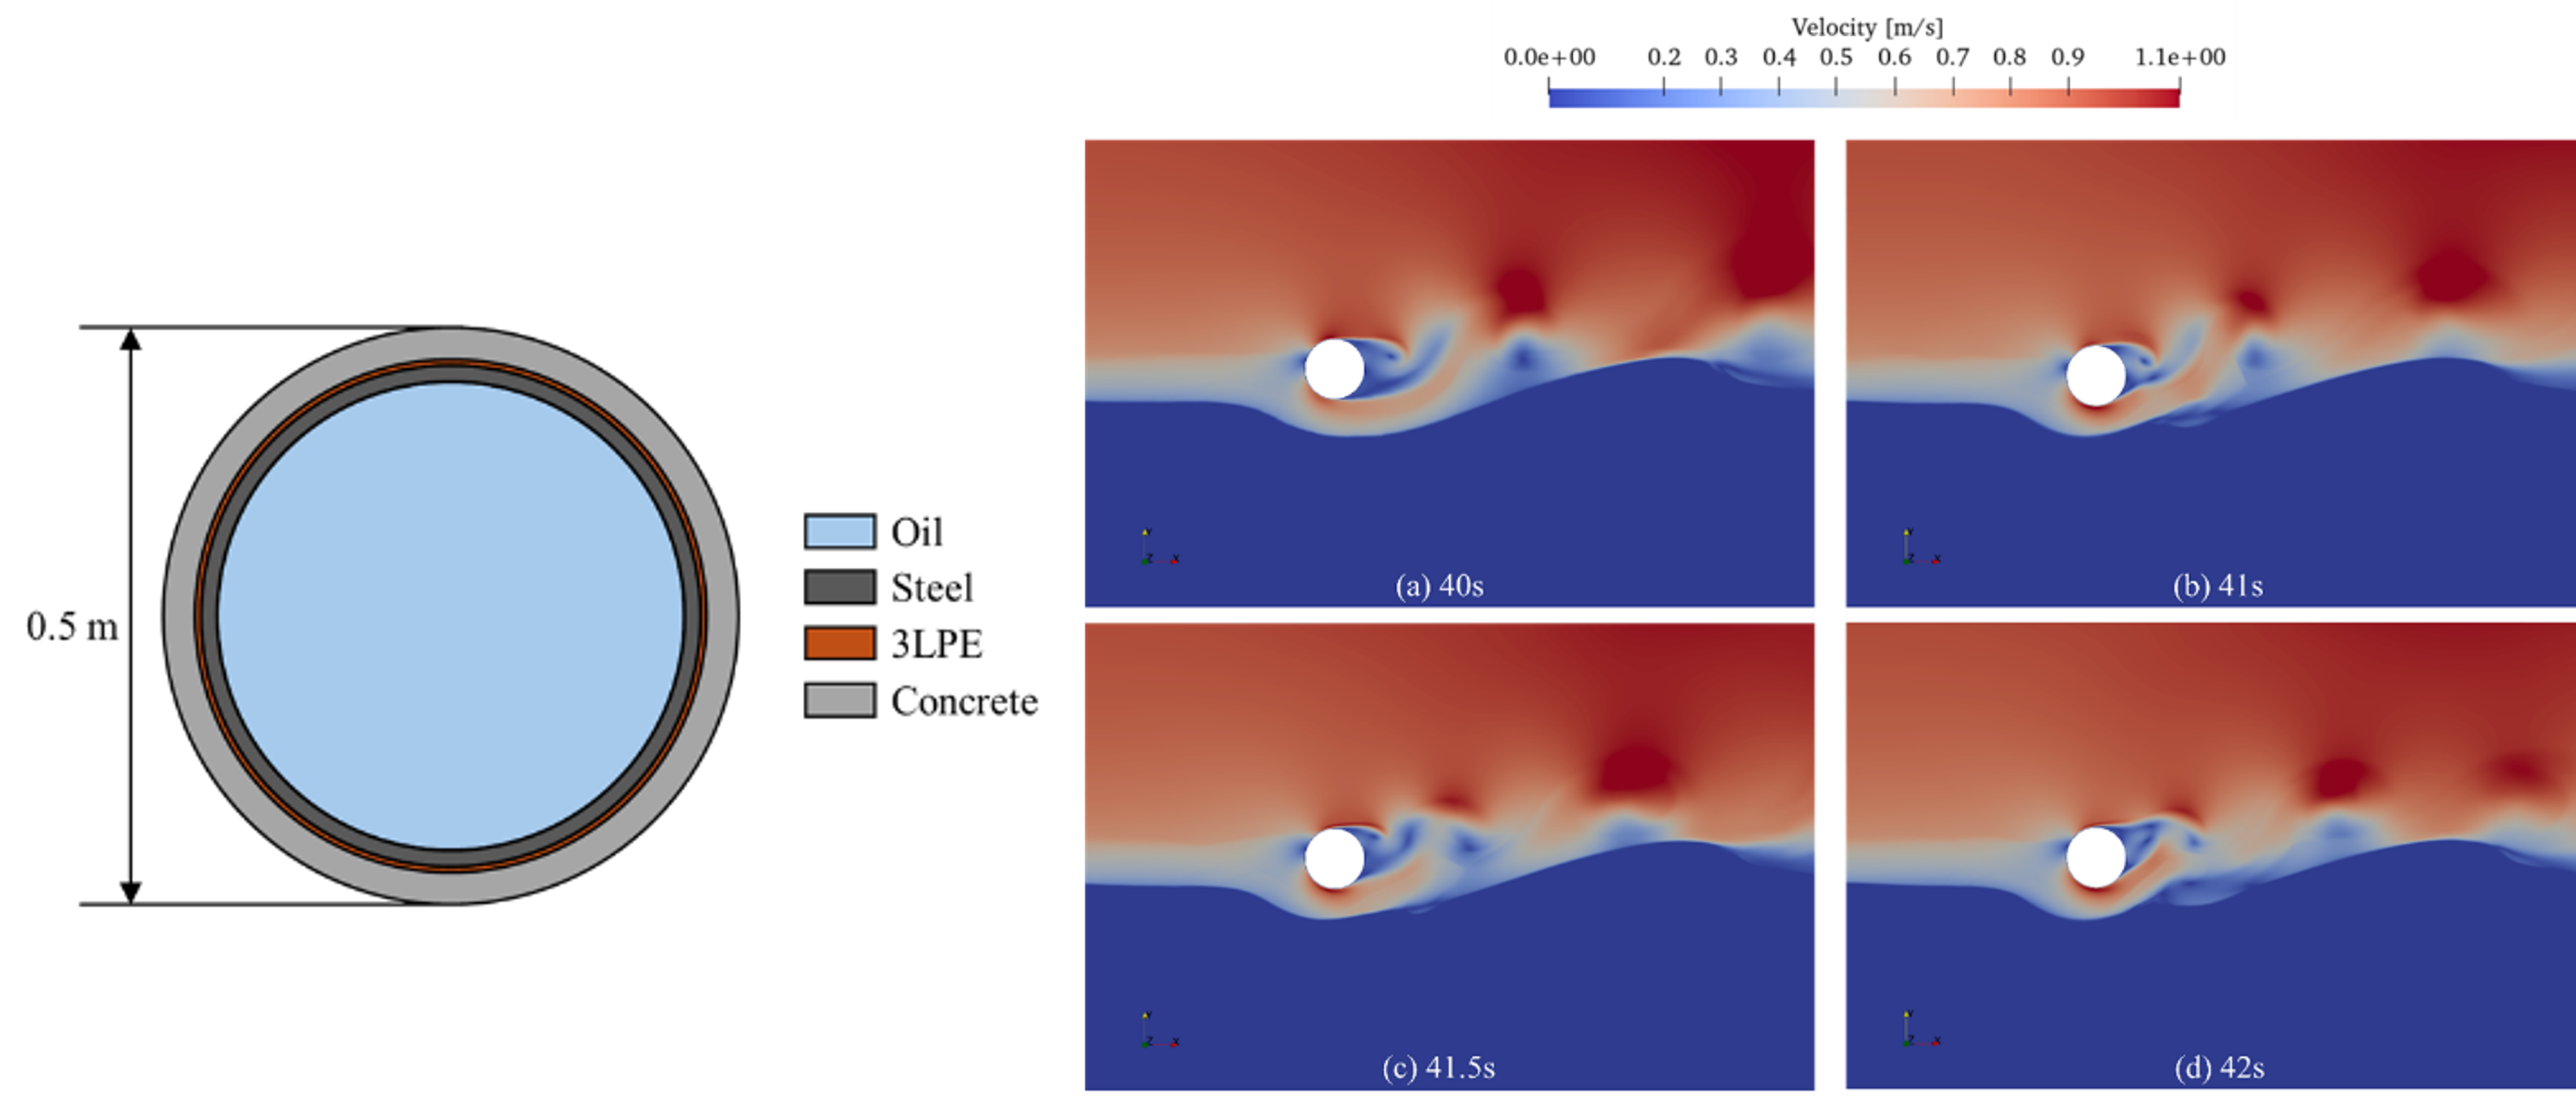
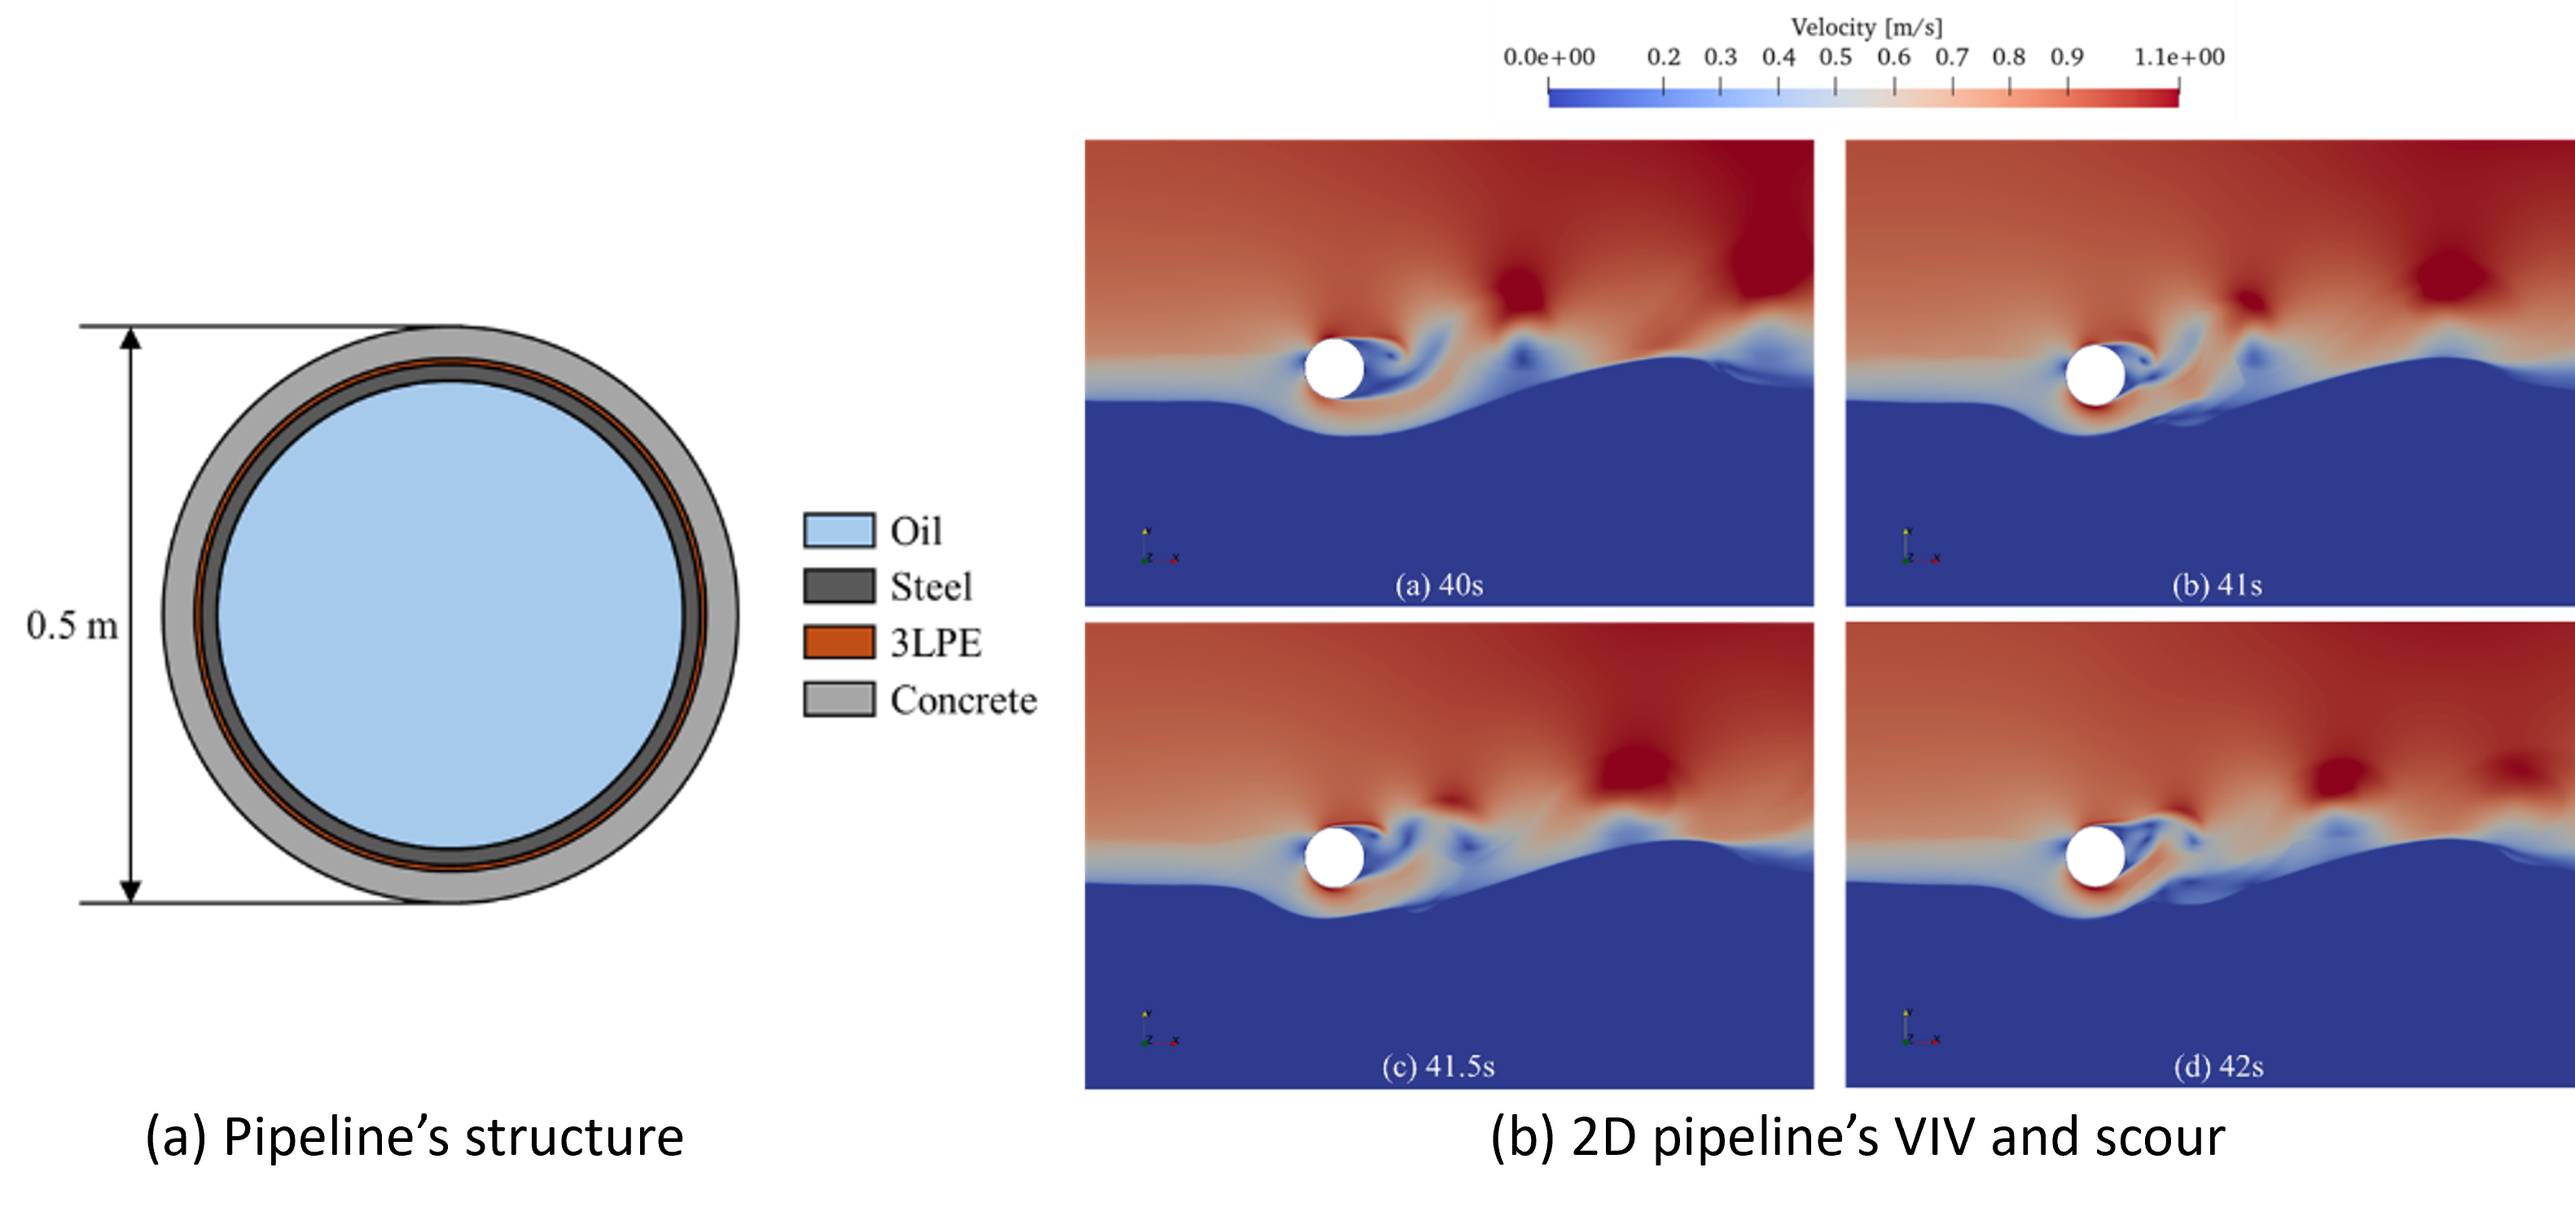
Add files via upload

diff --git a/numerical-investigation-of-coupled-vortex-induced-vibration-and-scour-of-subsea-pipelines-under-ocean-currents.html b/numerical-investigation-of-coupled-vortex-induced-vibration-and-scour-of-subsea-pipelines-under-ocean-currents.html
@@ -1,2 +1,2 @@
 <!DOCTYPE html>
-<html lang="en"><head><meta charset="UTF-8"><meta name="viewport" content="width=device-width, initial-scale=1"><meta name="description" content="Numerical Investigation of Coupled Vortex-Induced Vibration and Scour of Subsea Pipelines under Ocean Currents. Journal of Marine Science and Engineering (2026)."><meta name="theme-color" content="#176a7a"><title>Numerical Investigation of Coupled Vortex-Induced Vibration and Scour of Subsea Pipelines under Ocean Currents | Xueliang Wen</title><link rel="stylesheet" href="style.css"></head><body><a class="skip-link" href="#main">Skip to content</a><header><nav class="navbar" aria-label="Main navigation"><a class="nav-left" href="index.html">Xueliang Wen</a><ul class="nav-right"><li><a href="index.html">Home</a></li><li><a href="projects.html">Projects</a></li><li><a href="publications.html" class="active" aria-current="page">Publications</a></li></ul></nav></header><main class="container" id="main"><article class="right full-width article-detail"><a href="publications.html#journal-2026">← Back to Publications</a><h1 class="page-title article-title"><a href="https://doi.org/10.3390/jmse14141279">Numerical Investigation of Coupled Vortex-Induced Vibration and Scour of Subsea Pipelines under Ocean Currents</a></h1><p class="article-authors">Yancheng Li, Xueliang Wen, Guang Yin, Lusheng Jia, Jun Huang, Naiquan Ye, Muk Chen Ong</p><p class="muted"><time datetime="2026">2026</time></p><figure class="article-figure"><img src="numerical-investigation-of-coupled-vortex-induced-vibration-and-scour-of-subsea-pipelines-under-ocean-currents.png" alt="Numerical Investigation of Coupled Vortex-Induced Vibration and Scour of Subsea Pipelines under Ocean Currents"></figure><section aria-labelledby="abstract-title"><h2 id="abstract-title">Abstract</h2><p>Sediment transport beneath subsea pipelines is essentially a highly complex multiphase flow problem, involving strong coupling between hydrodynamics, structural response, and sediment transfer. Accurately capturing this process is of significant scientific and engineering importance for predicting seabed evolution and ensuring the structural safety and stability of subsea pipelines. In this study, the coupled vortex-induced vibration (VIV) and scour behaviour of subsea pipelines under steady current conditions is investigated using a computational fluid dynamics (CFD)-based numerical approach. The solver is developed within SedFoam by incorporating dynamic mesh motion to account for pipeline vibration. The pipeline is modelled as a single-degree-of-freedom system with a vertically mounted spring and a concentrated mass. The numerical results reveal a strong interaction between pipeline VIV and the evolving seabed morphology. Repeated pipeline motion toward the seabed significantly modifies the local scour profile and promotes the formation of a sand dune beneath the pipeline. The presence of the sand dune alters the near-bed flow field and suppresses vortex shedding beneath the pipeline. As the scour process develops and the fluid–structure–seabed interaction intensifies, the VIV response of the pipeline is progressively reduced. The present study highlights the important coupling mechanisms between pipeline vibration and seabed scour and provides insights into the dynamic evolution of pipeline–seabed interaction.</p><a href="https://doi.org/10.3390/jmse14141279">Read the published article ↗</a></section><dl class="article-metadata"><div><dt>Publication type</dt><dd>Journal article</dd></div><div><dt>Journal</dt><dd>Journal of Marine Science and Engineering</dd></div><div><dt>Volume</dt><dd>14</dd></div><div><dt>Issue</dt><dd>14</dd></div><div><dt>Article number</dt><dd>1279</dd></div><div><dt>DOI</dt><dd><a href="https://doi.org/10.3390/jmse14141279">10.3390/jmse14141279</a></dd></div></dl></article></main><footer><span>Xueliang Wen · Marine Technology</span><a href="mailto:xueliang.wen@outlook.com">xueliang.wen@outlook.com</a></footer></body></html>
+<html lang="en"><head><meta charset="UTF-8"><meta name="viewport" content="width=device-width, initial-scale=1"><meta name="description" content="Numerical investigation of coupled vortex-induced vibration and scour of subsea pipelines under ocean currents. Journal of Marine Science and Engineering (2026)."><meta name="theme-color" content="#176a7a"><title>Numerical investigation of coupled vortex-induced vibration and scour of subsea pipelines under ocean currents | Xueliang Wen</title><link rel="stylesheet" href="style.css"></head><body><a class="skip-link" href="#main">Skip to content</a><header><nav class="navbar" aria-label="Main navigation"><a class="nav-left" href="index.html">Xueliang Wen</a><ul class="nav-right"><li><a href="index.html">Home</a></li><li><a href="projects.html">Projects</a></li><li><a href="publications.html" class="active" aria-current="page">Publications</a></li></ul></nav></header><main class="container" id="main"><article class="right full-width article-detail"><a href="publications.html#journal-2026">← Back to Publications</a><h1 class="page-title article-title"><a href="https://doi.org/10.3390/jmse14141279">Numerical investigation of coupled vortex-induced vibration and scour of subsea pipelines under ocean currents</a></h1><p class="article-authors">Yancheng Li, Xueliang Wen, Guang Yin, Lusheng Jia, Jun Huang, Naiquan Ye, Muk Chen Ong</p><p class="muted"><time datetime="2026">2026</time></p><figure class="article-figure"><img src="numerical-investigation-of-coupled-vortex-induced-vibration-and-scour-of-subsea-pipelines-under-ocean-currents.png" alt="Numerical investigation of coupled vortex-induced vibration and scour of subsea pipelines under ocean currents"></figure><section aria-labelledby="abstract-title"><h2 id="abstract-title">Abstract</h2><p>Sediment transport beneath subsea pipelines is essentially a highly complex multiphase flow problem, involving strong coupling between hydrodynamics, structural response, and sediment transfer. Accurately capturing this process is of significant scientific and engineering importance for predicting seabed evolution and ensuring the structural safety and stability of subsea pipelines. In this study, the coupled vortex-induced vibration (VIV) and scour behaviour of subsea pipelines under steady current conditions is investigated using a computational fluid dynamics (CFD)-based numerical approach. The solver is developed within SedFoam by incorporating dynamic mesh motion to account for pipeline vibration. The pipeline is modelled as a single-degree-of-freedom system with a vertically mounted spring and a concentrated mass. The numerical results reveal a strong interaction between pipeline VIV and the evolving seabed morphology. Repeated pipeline motion toward the seabed significantly modifies the local scour profile and promotes the formation of a sand dune beneath the pipeline. The presence of the sand dune alters the near-bed flow field and suppresses vortex shedding beneath the pipeline. As the scour process develops and the fluid–structure–seabed interaction intensifies, the VIV response of the pipeline is progressively reduced. The present study highlights the important coupling mechanisms between pipeline vibration and seabed scour and provides insights into the dynamic evolution of pipeline–seabed interaction.</p><a href="https://doi.org/10.3390/jmse14141279">Read the published article ↗</a></section><dl class="article-metadata"><div><dt>Publication type</dt><dd>Journal article</dd></div><div><dt>Journal</dt><dd>Journal of Marine Science and Engineering</dd></div><div><dt>Volume</dt><dd>14</dd></div><div><dt>Issue</dt><dd>14</dd></div><div><dt>Article number</dt><dd>1279</dd></div><div><dt>DOI</dt><dd><a href="https://doi.org/10.3390/jmse14141279">10.3390/jmse14141279</a></dd></div></dl></article></main><footer><span>Xueliang Wen · Marine Technology</span><a href="mailto:xueliang.wen@outlook.com">xueliang.wen@outlook.com</a></footer></body></html>

diff --git a/three-dimensional-numerical-simulation-of-spanwise-scour-propagation-beneath-a-submarine-pipeline.html b/three-dimensional-numerical-simulation-of-spanwise-scour-propagation-beneath-a-submarine-pipeline.html
@@ -1,2 +1,2 @@
 <!DOCTYPE html>
-<html lang="en"><head><meta charset="UTF-8"><meta name="viewport" content="width=device-width, initial-scale=1"><meta name="description" content="Three-Dimensional Numerical Simulation of Spanwise Scour Propagation Beneath a Submarine Pipeline. Journal of Marine Science and Engineering (2026)."><meta name="theme-color" content="#176a7a"><title>Three-Dimensional Numerical Simulation of Spanwise Scour Propagation Beneath a Submarine Pipeline | Xueliang Wen</title><link rel="stylesheet" href="style.css"></head><body><a class="skip-link" href="#main">Skip to content</a><header><nav class="navbar" aria-label="Main navigation"><a class="nav-left" href="index.html">Xueliang Wen</a><ul class="nav-right"><li><a href="index.html">Home</a></li><li><a href="projects.html">Projects</a></li><li><a href="publications.html" class="active" aria-current="page">Publications</a></li></ul></nav></header><main class="container" id="main"><article class="right full-width article-detail"><a href="publications.html#journal-2026">← Back to Publications</a><h1 class="page-title article-title"><a href="https://doi.org/10.3390/jmse14181729">Three-Dimensional Numerical Simulation of Spanwise Scour Propagation Beneath a Submarine Pipeline</a></h1><p class="article-authors">Jun Huang, Guang Yin, Xueliang Wen, Lusheng Jia, Yancheng Li, Zerui Tao, Naiquan Ye, Muk Chen Ong</p><p class="muted"><time datetime="2026">2026</time></p><figure class="article-figure"><img src="three-dimensional-numerical-simulation-of-spanwise-scour-propagation-beneath-a-submarine-pipeline.png" alt="Three-Dimensional Numerical Simulation of Spanwise Scour Propagation Beneath a Submarine Pipeline"></figure><section aria-labelledby="abstract-title"><h2 id="abstract-title">Abstract</h2><p>When submarine pipelines are placed on erodible sandy beds, the interaction between the surrounding flow, the pipeline, and the sediment can induce local scour. While two-dimensional simulations have been extensively performed to capture the scour process in a two-dimensional cross-sectional plane, they cannot simulate the three-dimensional (3D) spanwise propagation of the scour hole, which leads to free-span development. This study presents 3D numerical simulations of current-induced scour propagation in the spanwise direction beneath a subsea pipeline using an open-source Eulerian two-phase flow solver. Systematic simulations are performed under four distinct Shields parameters. The results indicate a close spatial association between the evolving 3D scour hole and regions of localized shear stress amplification and sediment flux near the span shoulder. For low Shields parameters, the scour hole retains pronounced 3D features with steady spanwise propagation, which is also characterized by skewed wake flow structures and oblique downstream dunes. At higher Shields parameters, the scour front propagates rapidly across the domain, causing the morphology and flow streamlines to transition to a quasi-2D state. Furthermore, the scour slope at the span shoulder remains approximately constant across the investigated flow conditions. The spanwise propagation speed is approximately constant during the fitted propagation stage for the selected four simulated conditions.</p><a href="https://doi.org/10.3390/jmse14181729">Read the published article ↗</a></section><dl class="article-metadata"><div><dt>Publication type</dt><dd>Journal article</dd></div><div><dt>Journal</dt><dd>Journal of Marine Science and Engineering</dd></div><div><dt>Volume</dt><dd>14</dd></div><div><dt>Issue</dt><dd>18</dd></div><div><dt>Article number</dt><dd>1729</dd></div><div><dt>DOI</dt><dd><a href="https://doi.org/10.3390/jmse14181729">10.3390/jmse14181729</a></dd></div></dl></article></main><footer><span>Xueliang Wen · Marine Technology</span><a href="mailto:xueliang.wen@outlook.com">xueliang.wen@outlook.com</a></footer></body></html>
+<html lang="en"><head><meta charset="UTF-8"><meta name="viewport" content="width=device-width, initial-scale=1"><meta name="description" content="Three-dimensional numerical simulation of spanwise scour propagation beneath a submarine pipeline. Journal of Marine Science and Engineering (2026)."><meta name="theme-color" content="#176a7a"><title>Three-dimensional numerical simulation of spanwise scour propagation beneath a submarine pipeline | Xueliang Wen</title><link rel="stylesheet" href="style.css"></head><body><a class="skip-link" href="#main">Skip to content</a><header><nav class="navbar" aria-label="Main navigation"><a class="nav-left" href="index.html">Xueliang Wen</a><ul class="nav-right"><li><a href="index.html">Home</a></li><li><a href="projects.html">Projects</a></li><li><a href="publications.html" class="active" aria-current="page">Publications</a></li></ul></nav></header><main class="container" id="main"><article class="right full-width article-detail"><a href="publications.html#journal-2026">← Back to Publications</a><h1 class="page-title article-title"><a href="https://doi.org/10.3390/jmse14181729">Three-dimensional numerical simulation of spanwise scour propagation beneath a submarine pipeline</a></h1><p class="article-authors">Jun Huang, Guang Yin, Xueliang Wen, Lusheng Jia, Yancheng Li, Zerui Tao, Naiquan Ye, Muk Chen Ong</p><p class="muted"><time datetime="2026">2026</time></p><figure class="article-figure"><img src="three-dimensional-numerical-simulation-of-spanwise-scour-propagation-beneath-a-submarine-pipeline.png" alt="Three-dimensional numerical simulation of spanwise scour propagation beneath a submarine pipeline"></figure><section aria-labelledby="abstract-title"><h2 id="abstract-title">Abstract</h2><p>When submarine pipelines are placed on erodible sandy beds, the interaction between the surrounding flow, the pipeline, and the sediment can induce local scour. While two-dimensional simulations have been extensively performed to capture the scour process in a two-dimensional cross-sectional plane, they cannot simulate the three-dimensional (3D) spanwise propagation of the scour hole, which leads to free-span development. This study presents 3D numerical simulations of current-induced scour propagation in the spanwise direction beneath a subsea pipeline using an open-source Eulerian two-phase flow solver. Systematic simulations are performed under four distinct Shields parameters. The results indicate a close spatial association between the evolving 3D scour hole and regions of localized shear stress amplification and sediment flux near the span shoulder. For low Shields parameters, the scour hole retains pronounced 3D features with steady spanwise propagation, which is also characterized by skewed wake flow structures and oblique downstream dunes. At higher Shields parameters, the scour front propagates rapidly across the domain, causing the morphology and flow streamlines to transition to a quasi-2D state. Furthermore, the scour slope at the span shoulder remains approximately constant across the investigated flow conditions. The spanwise propagation speed is approximately constant during the fitted propagation stage for the selected four simulated conditions.</p><a href="https://doi.org/10.3390/jmse14181729">Read the published article ↗</a></section><dl class="article-metadata"><div><dt>Publication type</dt><dd>Journal article</dd></div><div><dt>Journal</dt><dd>Journal of Marine Science and Engineering</dd></div><div><dt>Volume</dt><dd>14</dd></div><div><dt>Issue</dt><dd>18</dd></div><div><dt>Article number</dt><dd>1729</dd></div><div><dt>DOI</dt><dd><a href="https://doi.org/10.3390/jmse14181729">10.3390/jmse14181729</a></dd></div></dl></article></main><footer><span>Xueliang Wen · Marine Technology</span><a href="mailto:xueliang.wen@outlook.com">xueliang.wen@outlook.com</a></footer></body></html>
